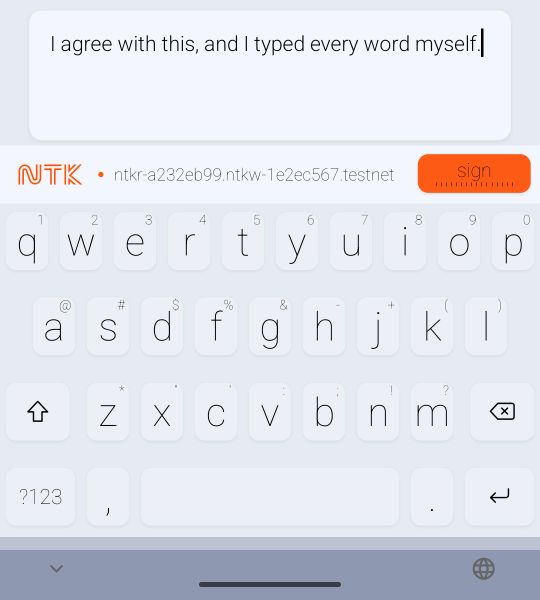
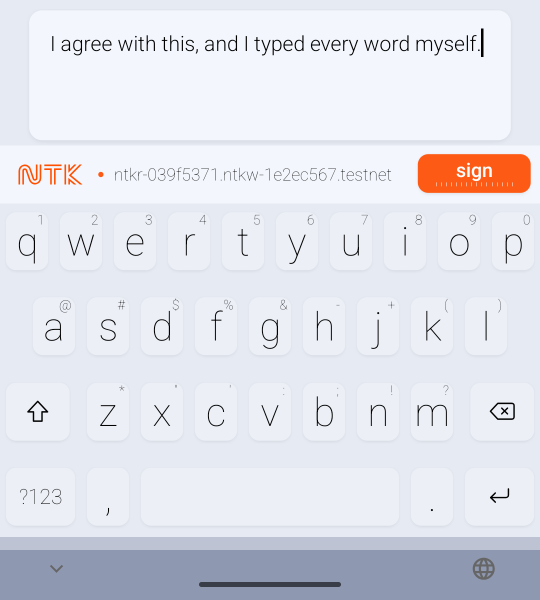
Keyboard: white text on orange, an even meter without numbers, keys veiled while waiting
- White text in a medium weight on every orange surface (the sign key and its
  ticks, the orange buttons on setup and enrollment, the stamp buttons).
- The meter during Sign or Enroll: 41 evenly spaced ticks (a long one every
  25%), no numbers; the needle eases toward about 90% while waiting, goes to
  100% on success and back to 0 on error; the key shows the elapsed seconds.
- While a call runs, every key sits under a translucent veil in the background
  colour, so it is clear typing is held.
- Verified on the NTK_Robot emulator only: unit 30/30, audit, capture 72/72,
  flow MATCH [NTK 5f186b3918] and impostor NO_MATCH (10%), StampTest MATCH
  [NTK 0de94ed101]. Screenshots replaced.

Changed region(s): [[0.2667, 0.27, 0.7407, 0.3], [0.8296, 0.27, 0.9185, 0.3]]

diff --git a/android/app/src/main/java/tools/ntk/ui/StripView.java b/android/app/src/main/java/tools/ntk/ui/StripView.java
@@ -7,6 +7,7 @@ import android.graphics.Canvas;
 import android.graphics.Paint;
 import android.graphics.Rect;
 import android.graphics.Typeface;
+import android.graphics.drawable.ColorDrawable;
 import android.graphics.drawable.Drawable;
 import android.os.SystemClock;
 import android.text.TextPaint;
@@ -15,8 +16,6 @@ import android.util.AttributeSet;
 import android.view.MotionEvent;
 import android.view.View;
 
-import java.util.ArrayList;
-import java.util.List;
 import java.util.Locale;
 
 import rkr.simplekeyboard.inputmethod.R;
@@ -32,13 +31,13 @@ import tools.ntk.TypingSession;
  * The strip above the keys (TODO.md 3.6, 3.7), flat and light as in the owner's
  * mock: at the left the small NTK mark, a status light and the account name (or
  * a message) in small thin type; at the right the Sign key, a flat orange tile
- * with a thin black label and a row of ticks that turn black as the session
- * approaches the taps a stamp needs.
+ * with a white label and a row of ticks that turn white as the session approaches
+ * the taps a stamp needs.
  *
- * While a Sign or Enroll call runs (seconds to minutes), the middle is a dial,
- * after an old radio's tuning scale: fine black ticks, a few tiny numbers
- * (seconds, closer together as they grow) and an orange needle that moves with
- * time toward 90% of the scale; when the call ends it swings to the end, or back
+ * While a Sign or Enroll call runs (seconds to minutes), typing is held: the keys
+ * lie under a veil, and the middle of the strip is a dial, after an old radio's
+ * tuning scale: evenly spaced fine black ticks from 0 to 100% and an orange needle
+ * that moves with time toward 90%; when the call ends it swings to 100%, or back
  * to 0 if it failed. The mark is a vector drawable (BadgeView) whose gaps are
  * painted in ntk_display, the strip's colour. The strip's height is fixed, so the
  * keys never move.
@@ -54,33 +53,23 @@ public final class StripView extends View implements NtkCapture.Listener, NtkCon
     private static final float EXPECTED_S = 60f;
     /** The needle's swing when a call ends, and how long the dial stays before the message shows. */
     private static final long SWING_MS = 700, HOLD_MS = 900;
-    /** The dial's numbers, in seconds. */
-    private static final int[] DIAL_NUMBERS = { 0, 5, 10, 20, 30, 60 };
-    /** The dial's ticks, in seconds: half seconds at first, then sparser, like a radio's MW scale. */
-    private static final float[] DIAL_TICKS;
-    static {
-        final List<Float> t = new ArrayList<>();
-        for (float s = 0f; s < 10f; s += 0.5f) t.add(s);
-        for (float s = 10f; s < 20f; s += 1f) t.add(s);
-        for (float s = 20f; s < 40f; s += 2f) t.add(s);
-        for (float s = 40f; s < 60f; s += 5f) t.add(s);
-        for (float s = 60f; s <= 80f; s += 10f) t.add(s);
-        DIAL_TICKS = new float[t.size()];
-        for (int i = 0; i < DIAL_TICKS.length; i++) DIAL_TICKS[i] = t.get(i);
-    }
-    /** Ticks on the Sign key that turn black as the session fills. */
+    /** The dial's scale: evenly spaced ticks from 0 to 100%, a longer one every quarter. */
+    private static final int DIAL_STEPS = 40, DIAL_LONG_EVERY = 10;
+    /** Ticks on the Sign key that turn white as the session fills. */
     private static final int SIGN_TICKS = 16;
 
     private final float mDp;
     private final TextPaint mText = new TextPaint(Paint.ANTI_ALIAS_FLAG);
     private final TextPaint mKeyText = new TextPaint(Paint.ANTI_ALIAS_FLAG);
-    private final TextPaint mDialText = new TextPaint(Paint.ANTI_ALIAS_FLAG);
     private final Paint mPaint = new Paint(Paint.ANTI_ALIAS_FLAG);
     private final Paint mLine = new Paint();
     private final Rect mSignRect = new Rect();
     private final Rect mBadgeRect = new Rect();
     private final Drawable mBadge;
     private final Tile mSignTile = new Tile();
+    /** Over the keys while typing is held (a call runs): they cannot be used then. */
+    private final ColorDrawable mVeil;
+    private View mVeiled;
 
     private final int cDisplay, cInk, cMuted, cMutedLight, cAccent, cAccentPressed, cOnAccent, cKey, cKeyPressed;
 
@@ -115,12 +104,9 @@ public final class StripView extends View implements NtkCapture.Listener, NtkCon
         mText.setTextSize(13 * sp);
         mText.setTypeface(thin);
         mKeyText.setTextSize(15 * sp);
-        mKeyText.setTypeface(thin);
+        mKeyText.setTypeface(Typeface.create("sans-serif-medium", Typeface.NORMAL)); // white on orange stays legible
         mKeyText.setTextAlign(Paint.Align.CENTER);
-        mDialText.setTextSize(9 * sp);
-        mDialText.setTypeface(Typeface.create("sans-serif-light", Typeface.NORMAL));
-        mDialText.setTextAlign(Paint.Align.CENTER);
-        mDialText.setColor(cInk);
+        mVeil = new ColorDrawable(context.getColor(R.color.ntk_veil));
         mLine.setStrokeWidth(Math.max(1f, Math.round(0.4f * mDp))); // hairlines, on whole pixels
         mBadge = BadgeView.load(context); // its gaps are painted in ntk_display, the strip's colour
         setBackgroundColor(cDisplay);
@@ -134,6 +120,7 @@ public final class StripView extends View implements NtkCapture.Listener, NtkCon
         BuildHooks.onKeyboardViews(getRootView().findViewById(R.id.keyboard_view), this);
         removeCallbacks(mTick);
         post(mTick);
+        updateVeil();
     }
 
     @Override
@@ -141,6 +128,10 @@ public final class StripView extends View implements NtkCapture.Listener, NtkCon
         NtkCapture.get().removeListener(this);
         NtkController.get(getContext()).removeListener(this);
         removeCallbacks(mTick);
+        if (mVeiled != null) {
+            mVeiled.getOverlay().remove(mVeil);
+            mVeiled = null;
+        }
         super.onDetachedFromWindow();
     }
 
@@ -148,6 +139,7 @@ public final class StripView extends View implements NtkCapture.Listener, NtkCon
         @Override
         public void run() {
             invalidate();
+            updateVeil();
             postDelayed(this, mDialCall != 0 ? 33 : NtkController.get(getContext()).isBusy() ? 250 : 1000);
         }
     };
@@ -155,6 +147,28 @@ public final class StripView extends View implements NtkCapture.Listener, NtkCon
     @Override
     public void onCaptureChanged() {
         invalidate();
+        updateVeil();
+    }
+
+    /**
+     * While typing is held (a Sign or Enroll call runs), the keys lie under a veil
+     * of the floor's colour, so it is clear they cannot be used; the system's
+     * navigation area below them stays clear. Drawing only.
+     */
+    private void updateVeil() {
+        final View kv = getRootView().findViewById(R.id.keyboard_view);
+        final View want = NtkCapture.get().isHolding() && kv != null && kv.isShown() ? kv : null;
+        if (mVeiled != null && mVeiled != want) {
+            mVeiled.getOverlay().remove(mVeil);
+            mVeiled = null;
+        }
+        if (want != null) {
+            mVeil.setBounds(0, 0, want.getWidth(), want.getHeight() - want.getPaddingBottom());
+            if (mVeiled == null) {
+                want.getOverlay().add(mVeil);
+                mVeiled = want;
+            }
+        }
     }
 
     @Override
@@ -290,34 +304,23 @@ public final class StripView extends View implements NtkCapture.Listener, NtkCon
         drawSignKey(c, account, s, busy, cap);
     }
 
-    /** The dial: a hairline with fine ticks, tiny numbers over the long ones, and the orange needle. */
+    /** The dial: a hairline with evenly spaced fine ticks from 0 to 100%, and the orange needle. */
     private void drawDial(Canvas c, float l, float r, float needle) {
         if (r - l < 40f * mDp) return;
         final float h = getHeight();
-        final float base = h / 2f + 9f * mDp;       // the ticks stand on this line
-        final float major = 9f * mDp, minor = 4.5f * mDp;
+        final float base = h / 2f + 6f * mDp;        // the ticks stand on this line
+        final float tall = 10f * mDp, small = 5f * mDp;
         mLine.setColor(cInk);
         c.drawLine(l, px(base), r, px(base), mLine);
-        for (float t : DIAL_TICKS) {
-            final float x = px(l + (r - l) * dial(t));
-            c.drawLine(x, base - (isNumbered(t) ? major : minor), x, base, mLine);
+        for (int i = 0; i <= DIAL_STEPS; i++) {
+            final float x = px(l + (r - l) * i / DIAL_STEPS);
+            c.drawLine(x, base - (i % DIAL_LONG_EVERY == 0 ? tall : small), x, base, mLine);
         }
-        c.drawLine(px(r), base - major, px(r), base, mLine); // the end: the call is done
-        final Paint.FontMetrics fm = mDialText.getFontMetrics();
-        final float numbers = base - major - 2.5f * mDp - fm.descent;
-        for (int n : DIAL_NUMBERS) {
-            c.drawText(Integer.toString(n), l + (r - l) * dial(n), numbers, mDialText);
-        }
-        // The needle, from above the numbers to below the line.
+        // The needle, from above the long ticks to below the line.
         final float x = l + (r - l) * Math.max(0f, Math.min(1f, needle));
         mPaint.setColor(cAccent);
         final float half = 0.75f * mDp;
-        c.drawRect(x - half, h / 2f - 15f * mDp, x + half, base + 4f * mDp, mPaint);
-    }
-
-    private static boolean isNumbered(float t) {
-        for (int n : DIAL_NUMBERS) if (n == t) return true;
-        return false;
+        c.drawRect(x - half, base - tall - 6f * mDp, x + half, base + 5f * mDp, mPaint);
     }
 
     /** The centre of the pixel at {@code v}: hairlines land on whole pixels. */
@@ -347,8 +350,8 @@ public final class StripView extends View implements NtkCapture.Listener, NtkCon
             if (s.changedReason() != null || !cap.isPortrait()) enabled = false;
         }
         mDrawnLabel = label;
-        // A flat tile inside the key's bounds: orange with a thin black label, or the keys'
-        // grey with a muted label when Sign cannot be used now. Pressed: no shadow.
+        // A flat tile inside the key's bounds: orange with a white label, or the keys' grey
+        // with a muted label when Sign cannot be used now. Pressed: no shadow.
         final boolean down = mSignPressed;
         final float fl = r.left + mDp, ft = r.top + 0.5f * mDp, fr = r.right - mDp, fb = r.bottom - 2f * mDp;
         mSignTile.face = enabled ? (down ? cAccentPressed : cAccent) : (down ? cKeyPressed : cKey);
@@ -359,14 +362,14 @@ public final class StripView extends View implements NtkCapture.Listener, NtkCon
         mKeyText.setColor(enabled ? cOnAccent : cMuted);
         c.drawText(label.toLowerCase(Locale.ROOT), (fl + fr) / 2f, cy - (fm.ascent + fm.descent) / 2f, mKeyText);
         if (ticks) {
-            // A row of ticks along the bottom: black up to how far the session has come.
+            // A row of ticks along the bottom: white up to how far the session has come.
             final float tl = fl + 14f * mDp, tr = fr - 14f * mDp;
             final float tb = fb - 5f * mDp, tt = tb - 3f * mDp;
             final int on = Math.round(fill * SIGN_TICKS);
             for (int i = 0; i < SIGN_TICKS; i++) {
                 final float x = px(tl + (tr - tl) * i / (SIGN_TICKS - 1));
                 mLine.setColor(cOnAccent);
-                mLine.setAlpha(i < on ? 255 : 64);
+                mLine.setAlpha(i < on ? 255 : 90);
                 c.drawLine(x, tt, x, tb, mLine);
             }
             mLine.setAlpha(255);

diff --git a/android/app/src/main/java/tools/ntk/a11y/StampButtonView.java b/android/app/src/main/java/tools/ntk/a11y/StampButtonView.java
@@ -14,14 +14,14 @@ import tools.ntk.ui.Tile;
 /**
  * The button drawn over a stamp tag in another app, in the NTK look: a flat
  * orange tile (tools.ntk.ui.Tile) with rounded corners and a barely visible
- * shadow, "NTK" and a thin check mark in black. Pressed, it darkens and loses its
- * shadow. The look does not follow dark mode: it sits on other apps' screens and
+ * shadow, "NTK" and a check mark in white, in a medium weight. Pressed, it darkens
+ * and loses its shadow. The look does not follow dark mode: it sits on other apps' screens and
  * must read as NTK's on any background.
  */
 final class StampButtonView extends View {
     static final int ORANGE = 0xFFFD5B15;
     static final int ORANGE_PRESSED = 0xFFE24E0F;
-    static final int INK = 0xFF000000;
+    static final int INK = 0xFFFFFFFF; // white on orange
 
     private final int mStep;
     private final float mDp;
@@ -38,12 +38,12 @@ final class StampButtonView extends View {
         mStep = Math.max(1, Math.round(1.5f * mDp));
         mTile.set(ORANGE, 0x2E1E2A3D, mDp, 5f, 1.5f, 0.75f);
         mText.setColor(INK);
-        mText.setTypeface(Typeface.create("sans-serif-light", Typeface.NORMAL));
+        mText.setTypeface(Typeface.create("sans-serif-medium", Typeface.NORMAL));
         mText.setLetterSpacing(0.06f);
         mText.setTextSize(13 * c.getResources().getDisplayMetrics().scaledDensity);
         mCheck.setColor(INK);
         mCheck.setStyle(Paint.Style.STROKE);
-        mCheck.setStrokeWidth(1.2f * mDp);
+        mCheck.setStrokeWidth(1.6f * mDp);
         mCheck.setStrokeCap(Paint.Cap.ROUND);
         mCheck.setStrokeJoin(Paint.Join.ROUND);
         setClickable(true);

diff --git a/android/NOTICE.md b/android/NOTICE.md
@@ -51,11 +51,12 @@ calls, bundled binaries.
   (`ui/FloorDrawable`); dark greys in dark mode. Legends in the system
   sans-serif's thin weight, large lowercase letters, thin line icons
   (`drawable/ntk_sym_*.xml`). The strip has the small NTK mark, the account in
-  thin type and the Sign key as a flat orange tile whose ticks fill with the
-  session; while a Sign or Enroll call runs, a dial (fine ticks, a few numbers in
-  seconds, an orange needle) shows it. The brand badge and launcher icon come
-  from `brand/out/android/`; the badge is the NTK mark as vector drawables,
-  `drawable/ntk_badge_light.xml` and `ntk_badge_dark.xml`, whose gaps are
+  thin type and the Sign key as a flat orange tile (white label) whose ticks fill
+  with the session; while a Sign or Enroll call runs, the keys are veiled and a
+  dial (evenly spaced fine ticks, 0 to 100%, an orange needle) shows it. The
+  brand badge and launcher icon come from `brand/out/android/`; the badge is the
+  NTK mark as vector drawables, `drawable/ntk_badge_light.xml` and
+  `ntk_badge_dark.xml`, whose gaps are
   painted in each theme's `ntk_display`, the strip and header colour it sits on;
   `ui/BadgeView` picks the one for the current theme and draws it smoothly at
   any height. The setup and enrollment screens and the stamp buttons use the
